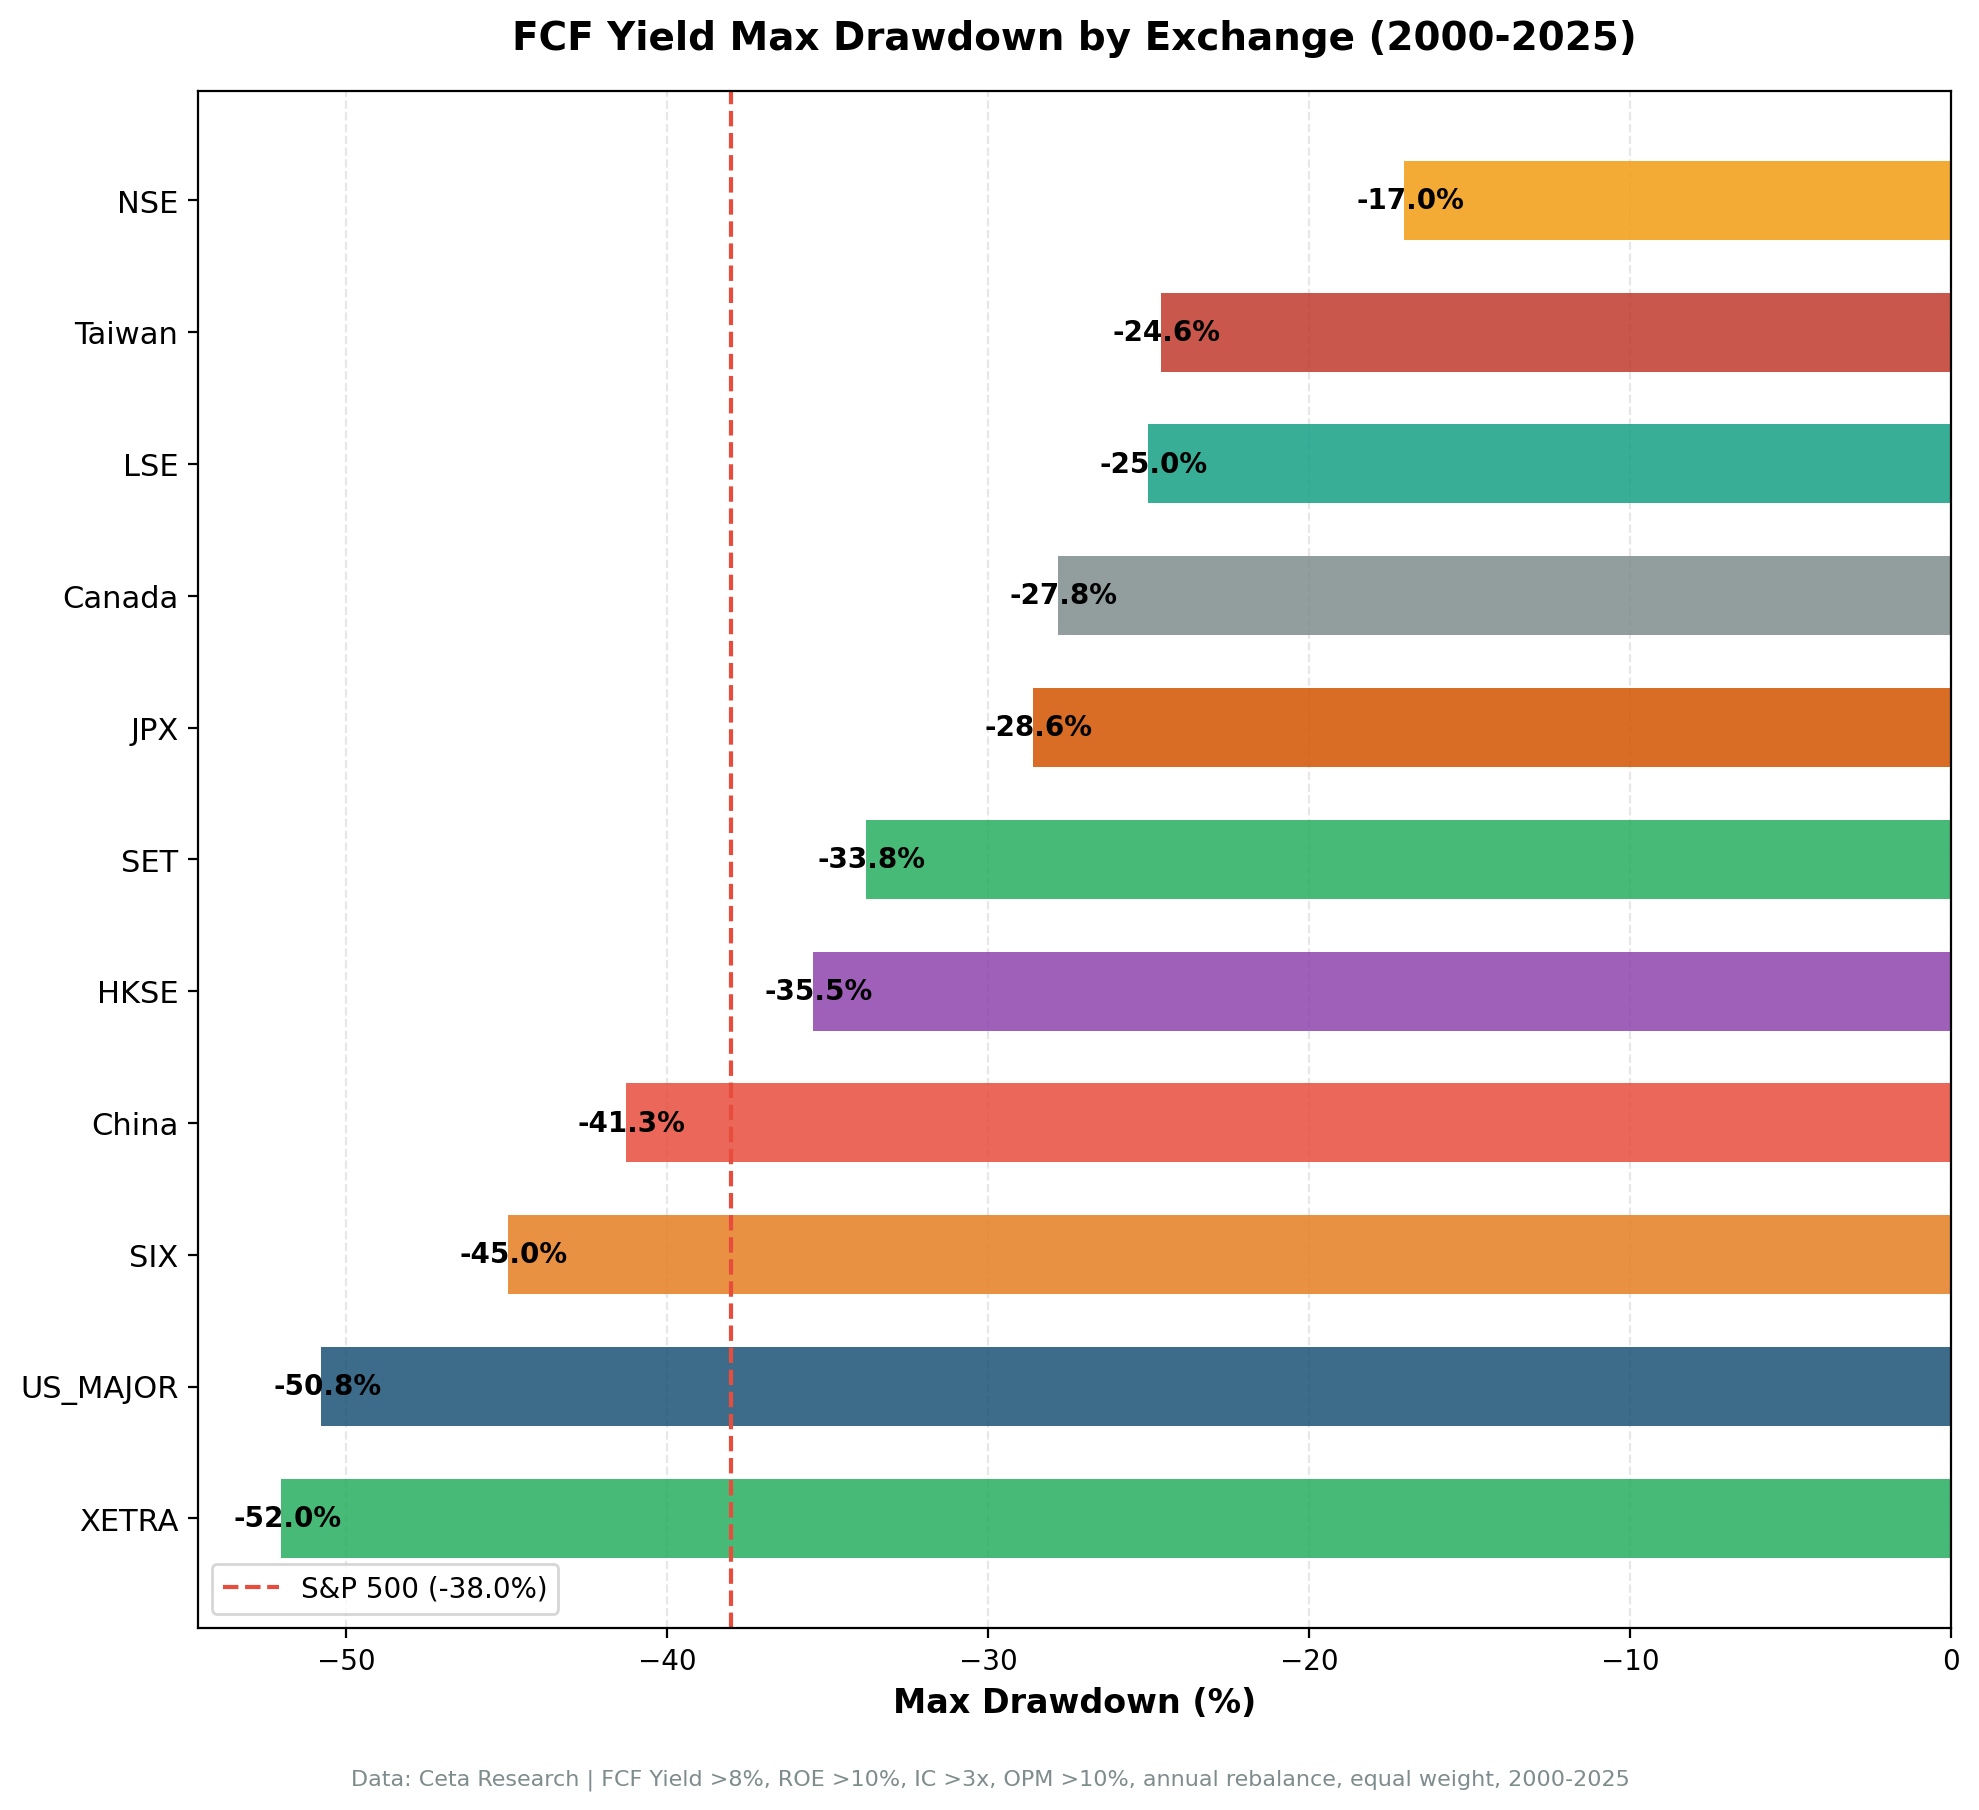
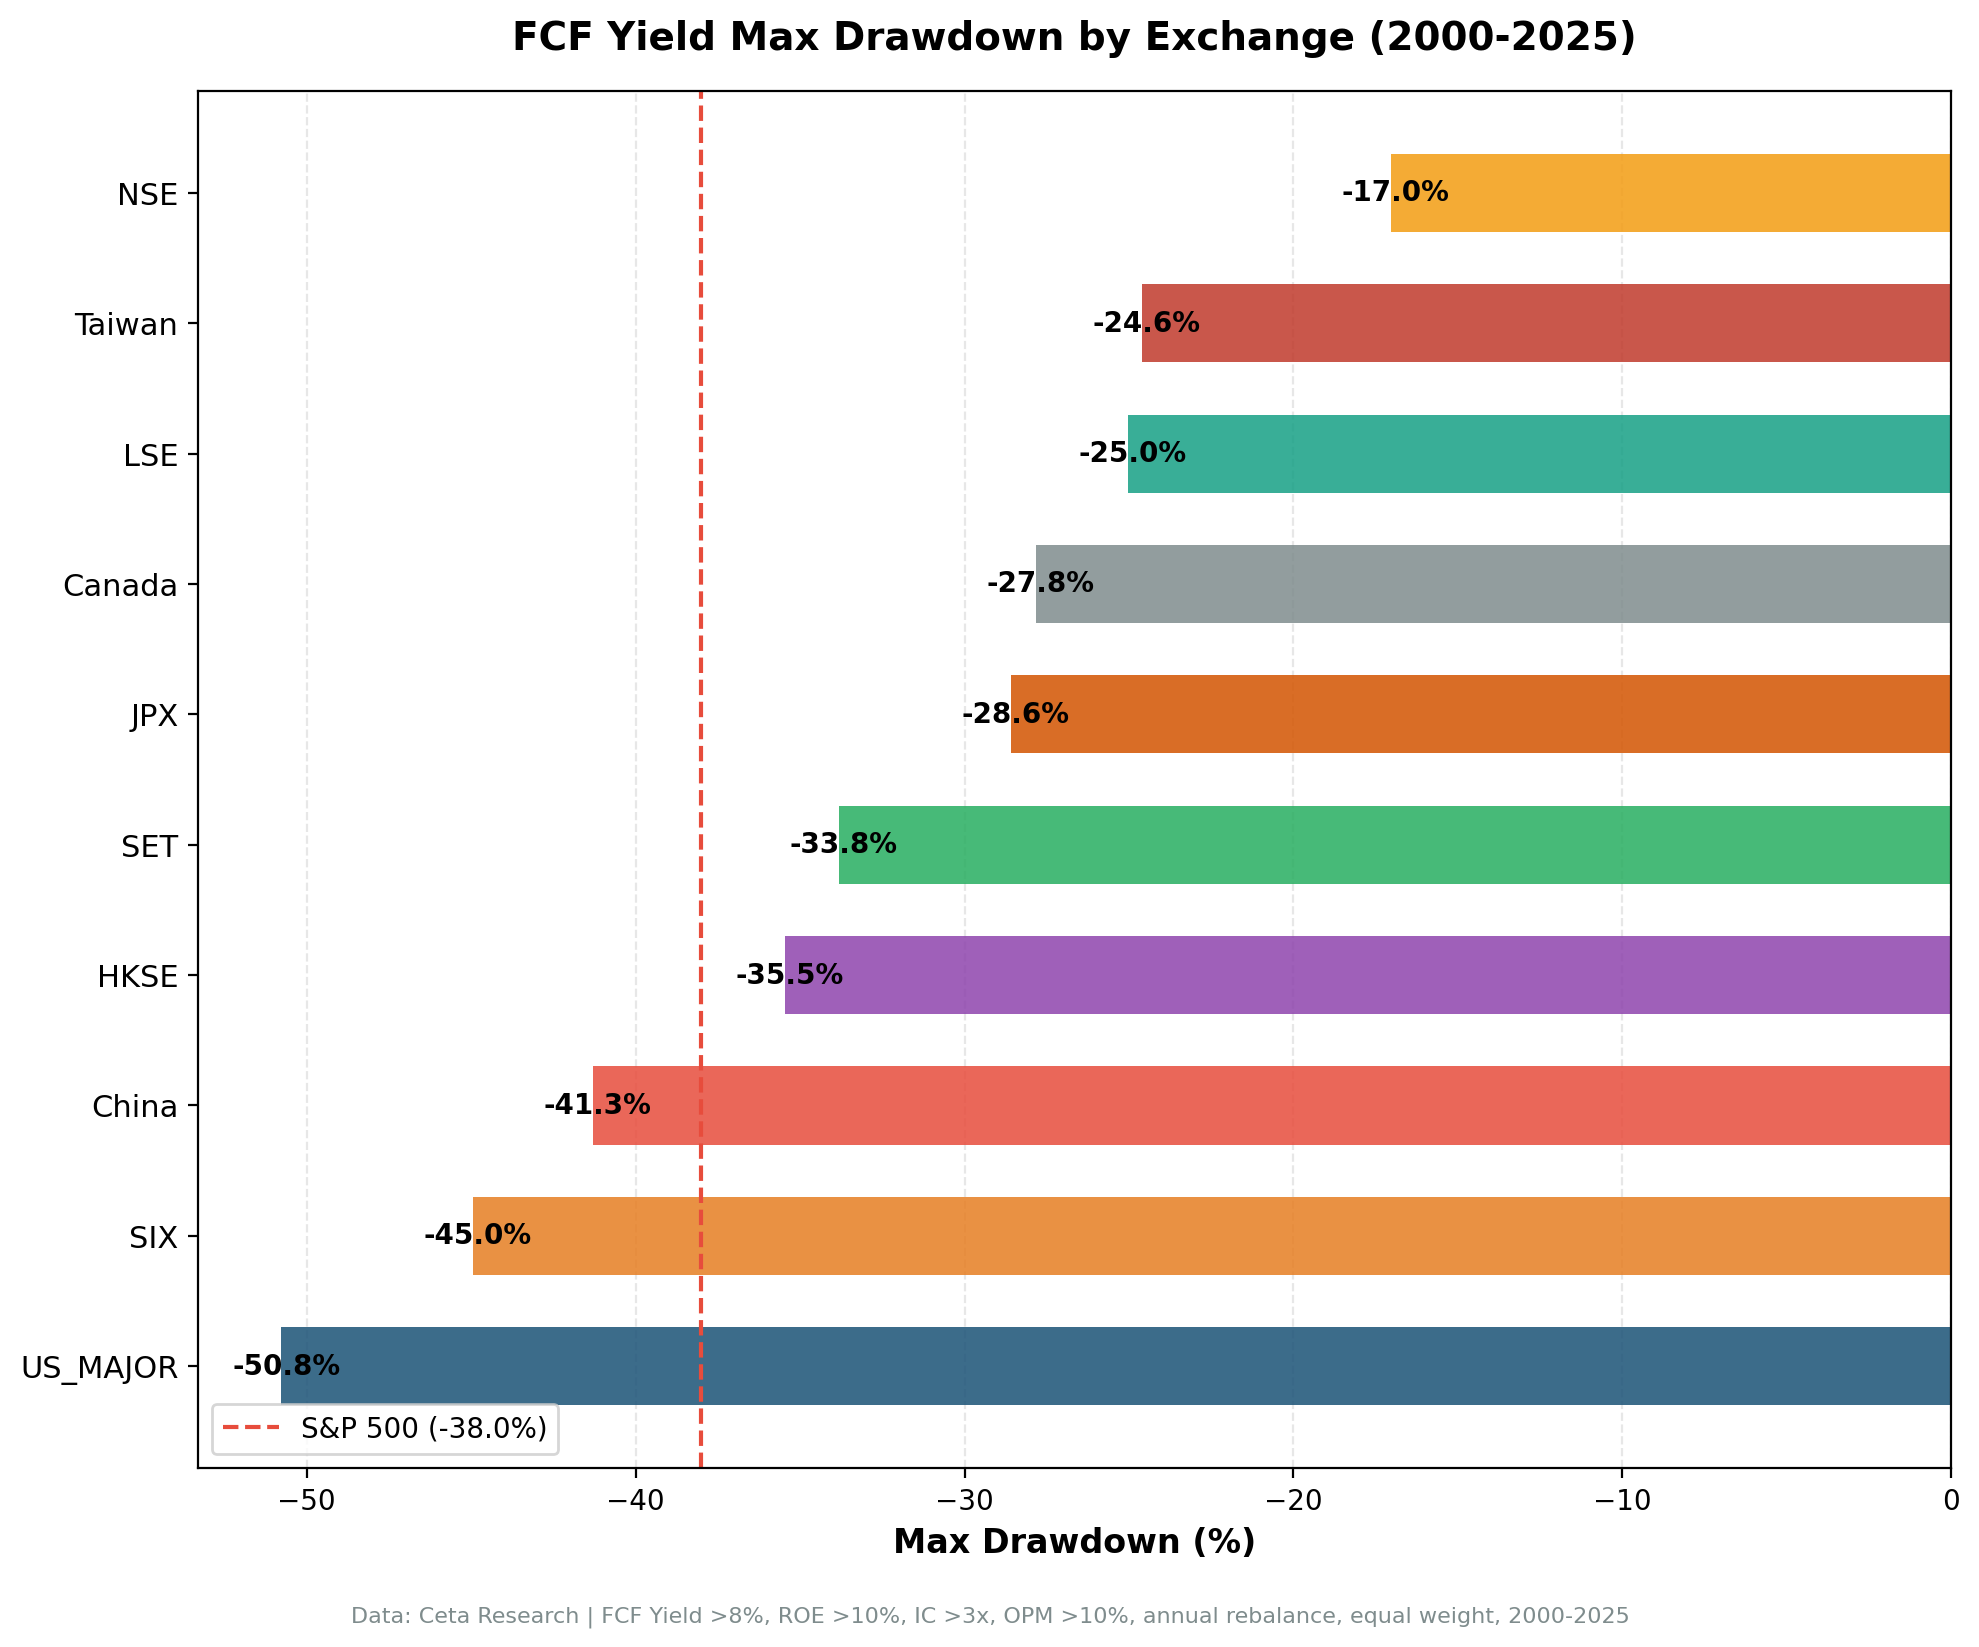
fcf-yield: drop XETRA from the study
Germany's result was an artifact of its listing venue rather than of
German companies (32 of 36 qualifying names US-domiciled in the 2015
screen; -3.60% excess once restricted to German companies). Removed from
exchange_comparison.json and the regional chart set; comparison charts
regenerated over the remaining 10 markets. The per-exchange result file
and the DATA_QUALITY_ISSUES.md write-up stay as the evidence.

diff --git a/fcf-yield/generate_charts.py b/fcf-yield/generate_charts.py
@@ -311,7 +311,6 @@ def chart_comparison_sharpe(filename):
 REGIONAL_CHARTS = [
     ("US_MAJOR", "us", "US", "NYSE + NASDAQ + AMEX, annual rebalance, equal weight"),
     ("LSE", "uk", "UK", "LSE, returns and benchmark in GBP"),
-    ("XETRA", "germany", "Germany", "XETRA, returns and benchmark in EUR"),
     ("JPX", "japan", "Japan", "JPX, returns and benchmark in JPY"),
     ("HKSE", "hongkong", "Hong Kong", "HKSE, returns and benchmark in HKD"),
 ]
